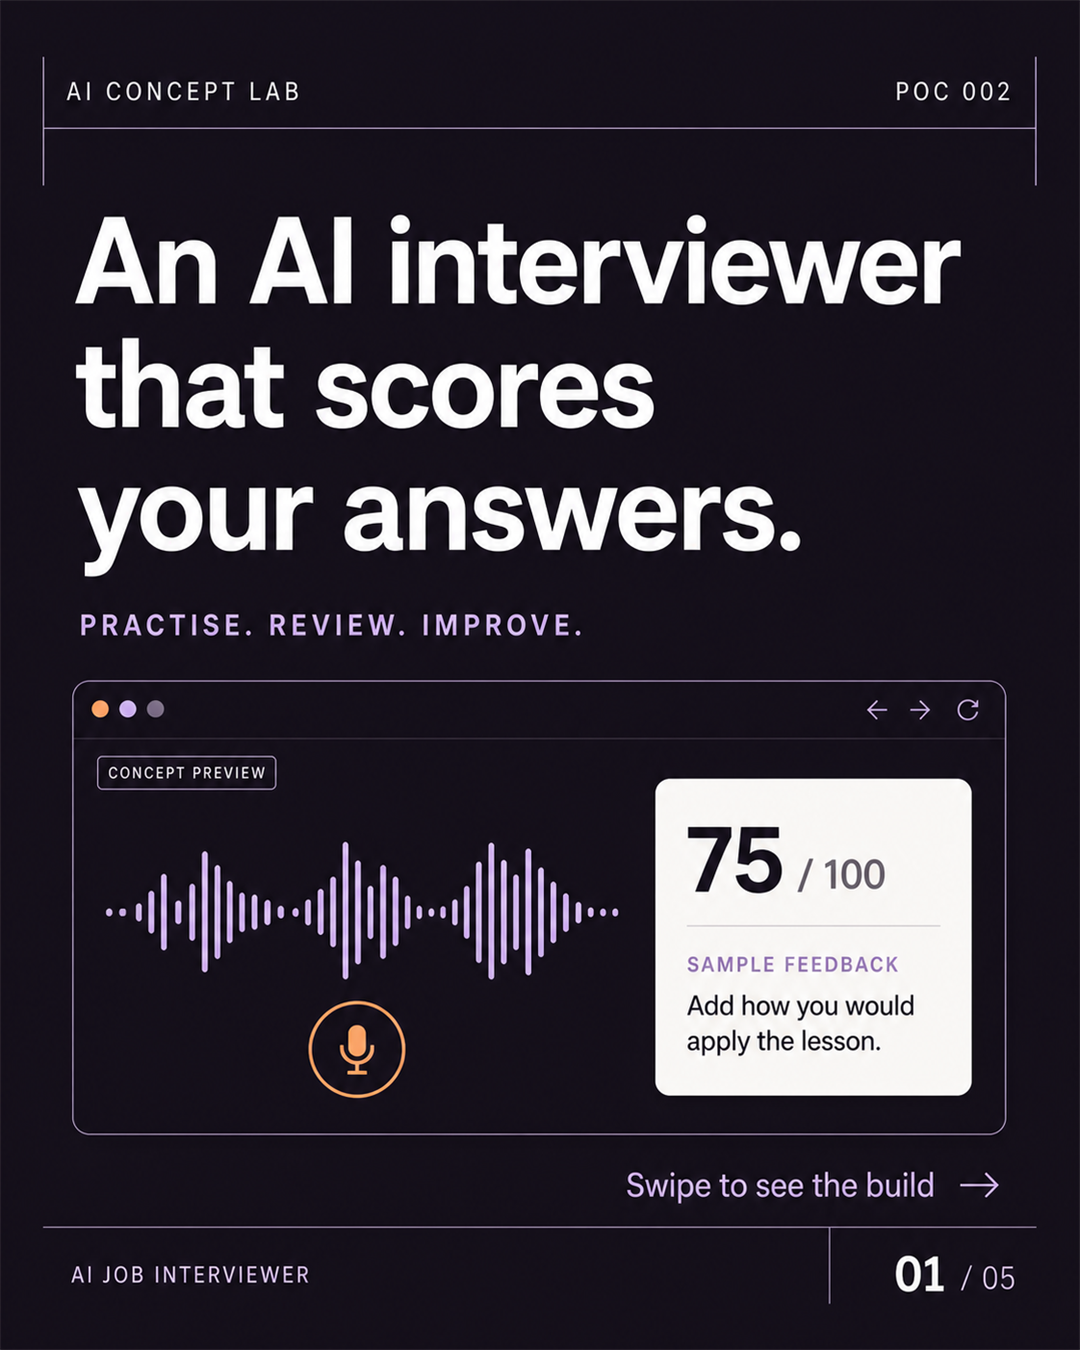
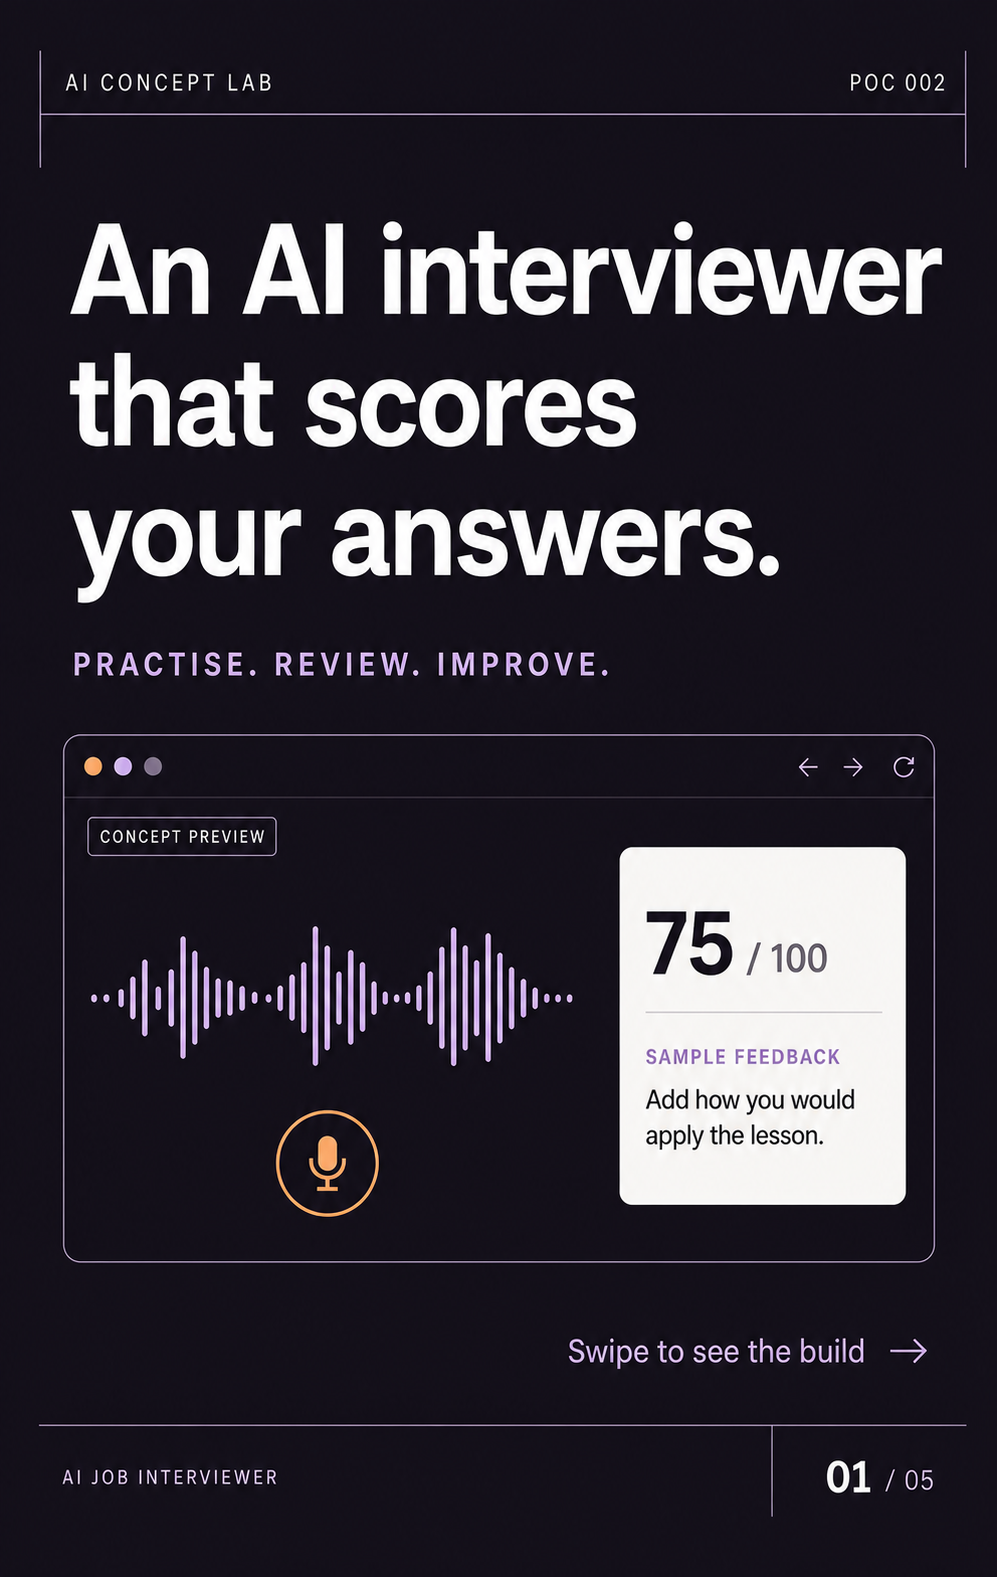
Match carousel dimensions to supplied POC 001 reference

diff --git a/marketing/prompts.md b/marketing/prompts.md
@@ -1,7 +1,7 @@
 # Generation record
 
 Tool: built-in image generation, with POC #001 cover and knowledge slide as style references.
-Final aspect ratio: 4:5. Generated masters were exported to exact 1080 × 1350 using high-quality resampling.
+Final dimensions: 997 × 1577, matching the user-provided POC #001 reference. The original 4:5 art direction below is retained as generation history.
 
 ## Shared art direction
 Create ONE finished Instagram carousel image, portrait 4:5, ideally 1080 x 1350. This is POC002 in an established AI CONCEPT LAB series. Reference images are STYLE references from POC001, not content to repeat. Match the premium dark editorial design: very large bold crisp white sans-serif headline, precise layout, thin hairline framing/rules at header/footer, small widely spaced uppercase brand text, restrained diagram/UI card compositions. New palette ONLY: near-black plum #17131F background, soft lilac #D6B9FF and warm apricot #FFB581 highlights, creamy white. No navy/mint. No gradients except subtle card shading. No person or avatar: this is a VOICE interviewer. Top small header "AI CONCEPT LAB" left, "POC 002" right. Footer thin rule, "AI JOB INTERVIEWER" left, page number right. Keep all content 65px away from edges. Beautiful professional typographic hierarchy, consistent line spacing and ample negative space; no illegible tiny text. Use ONLY requested copy below, spell perfectly. This is an illustrative product concept visual, not a screenshot.
@@ -26,3 +26,5 @@ Large top headline: "Voice agent." / "LLM evaluator." / "One small build." Middl
 Slides 02–05 were regenerated using the new cover alone as the canvas/style reference, preserving its 1122 × 1402 proportions. Slide 03 was then edited to place the quote card below the scorecard so all four ratings remain visible. Final text and ratings were checked visually.
 
 Slide 05 CTA revision: Built-in image generation edit. Change only the bottom apricot CTA to: Comment “CODE” to get the link. Preserve all other text, layout, typography, colors and icons. Export at 1080 × 1350. Visually checked after editing.
+## Reference-size revision
+Built-in image generation edit. Input 1: the existing POC002 slide, whose wording, artwork and plum/lilac/apricot palette must be preserved. Input 2: the user-provided POC001 cover, used only for its 997 × 1577 canvas and editorial spacing. Adapt each complete slide to this exact tall portrait size. Preserve all text and numbers, keep the header/footer fully visible, avoid overlaps, and preserve the final slide CTA: Comment "CODE" to get the link. Check every resulting image visually and verify all five final dimensions.

diff --git a/marketing/README.md b/marketing/README.md
@@ -1,6 +1,6 @@
 # Instagram launch pack · POC #002
 
-Upload the five numbered PNGs in order. Each file is 1080 × 1350 pixels (4:5), matching the first AI Concept Lab carousel's format. This edition uses plum, lilac and apricot. Copy caption.txt as the post text.
+Upload the five numbered PNGs in order. Each file is 997 × 1577 pixels, matching the exact POC #001 reference supplied by the user. The earlier 1080 × 1350 exports have been replaced with this requested format. This edition uses plum, lilac and apricot. Copy caption.txt as the post text.
 
 The images are concept illustrations, not screenshots or evidence of a live benchmark. The sample feedback totals 75/100: 4 + 4 + 4 + 3, multiplied by five. Generated with the built-in image tool; prompts and revision notes are in prompts.md.
 
@@ -9,7 +9,7 @@ The images are concept illustrations, not screenshots or evidence of a live benc
 2. **02-interview.png:** "Say it out loud. Then check the transcript." An interviewer asks about competing priorities; a candidate answer says they chose to fix onboarding first. Voice answers can be reviewed and edited; typing is also supported.
 3. **03-scoring.png:** "A score should come with a reason." Sample scores are relevance 4/5, structure 4/5, evidence 4/5 and reflection 3/5. A supporting quote reads "I chose to fix onboarding first."
 4. **04-improve.png:** "Make the next answer better." Feedback asks the user to explain how they would apply a lesson next time. A follow-up asks what they would do before the next planning meeting.
-5. **05-build.png:** "Voice agent. LLM evaluator. One small build." A diagram connects ElevenLabs voice and transcript, an LLM with a rubric and evidence checks, and practical feedback. Source code and the local sample are free; live APIs consume credits.
+5. **05-build.png:** "Voice agent. LLM evaluator. One small build." A diagram connects ElevenLabs voice and transcript, an LLM with a rubric and evidence checks, and practical feedback. Source code and the local sample are free; live APIs consume credits. The call to action reads: Comment "CODE" to get the link.
 
 ## Publishing note
 Link to https://github.com/aiconceptlab/poc-002-ai-job-interviewer from your profile or link page. The assets and caption are prepared for posting; this project does not publish to Instagram automatically.
